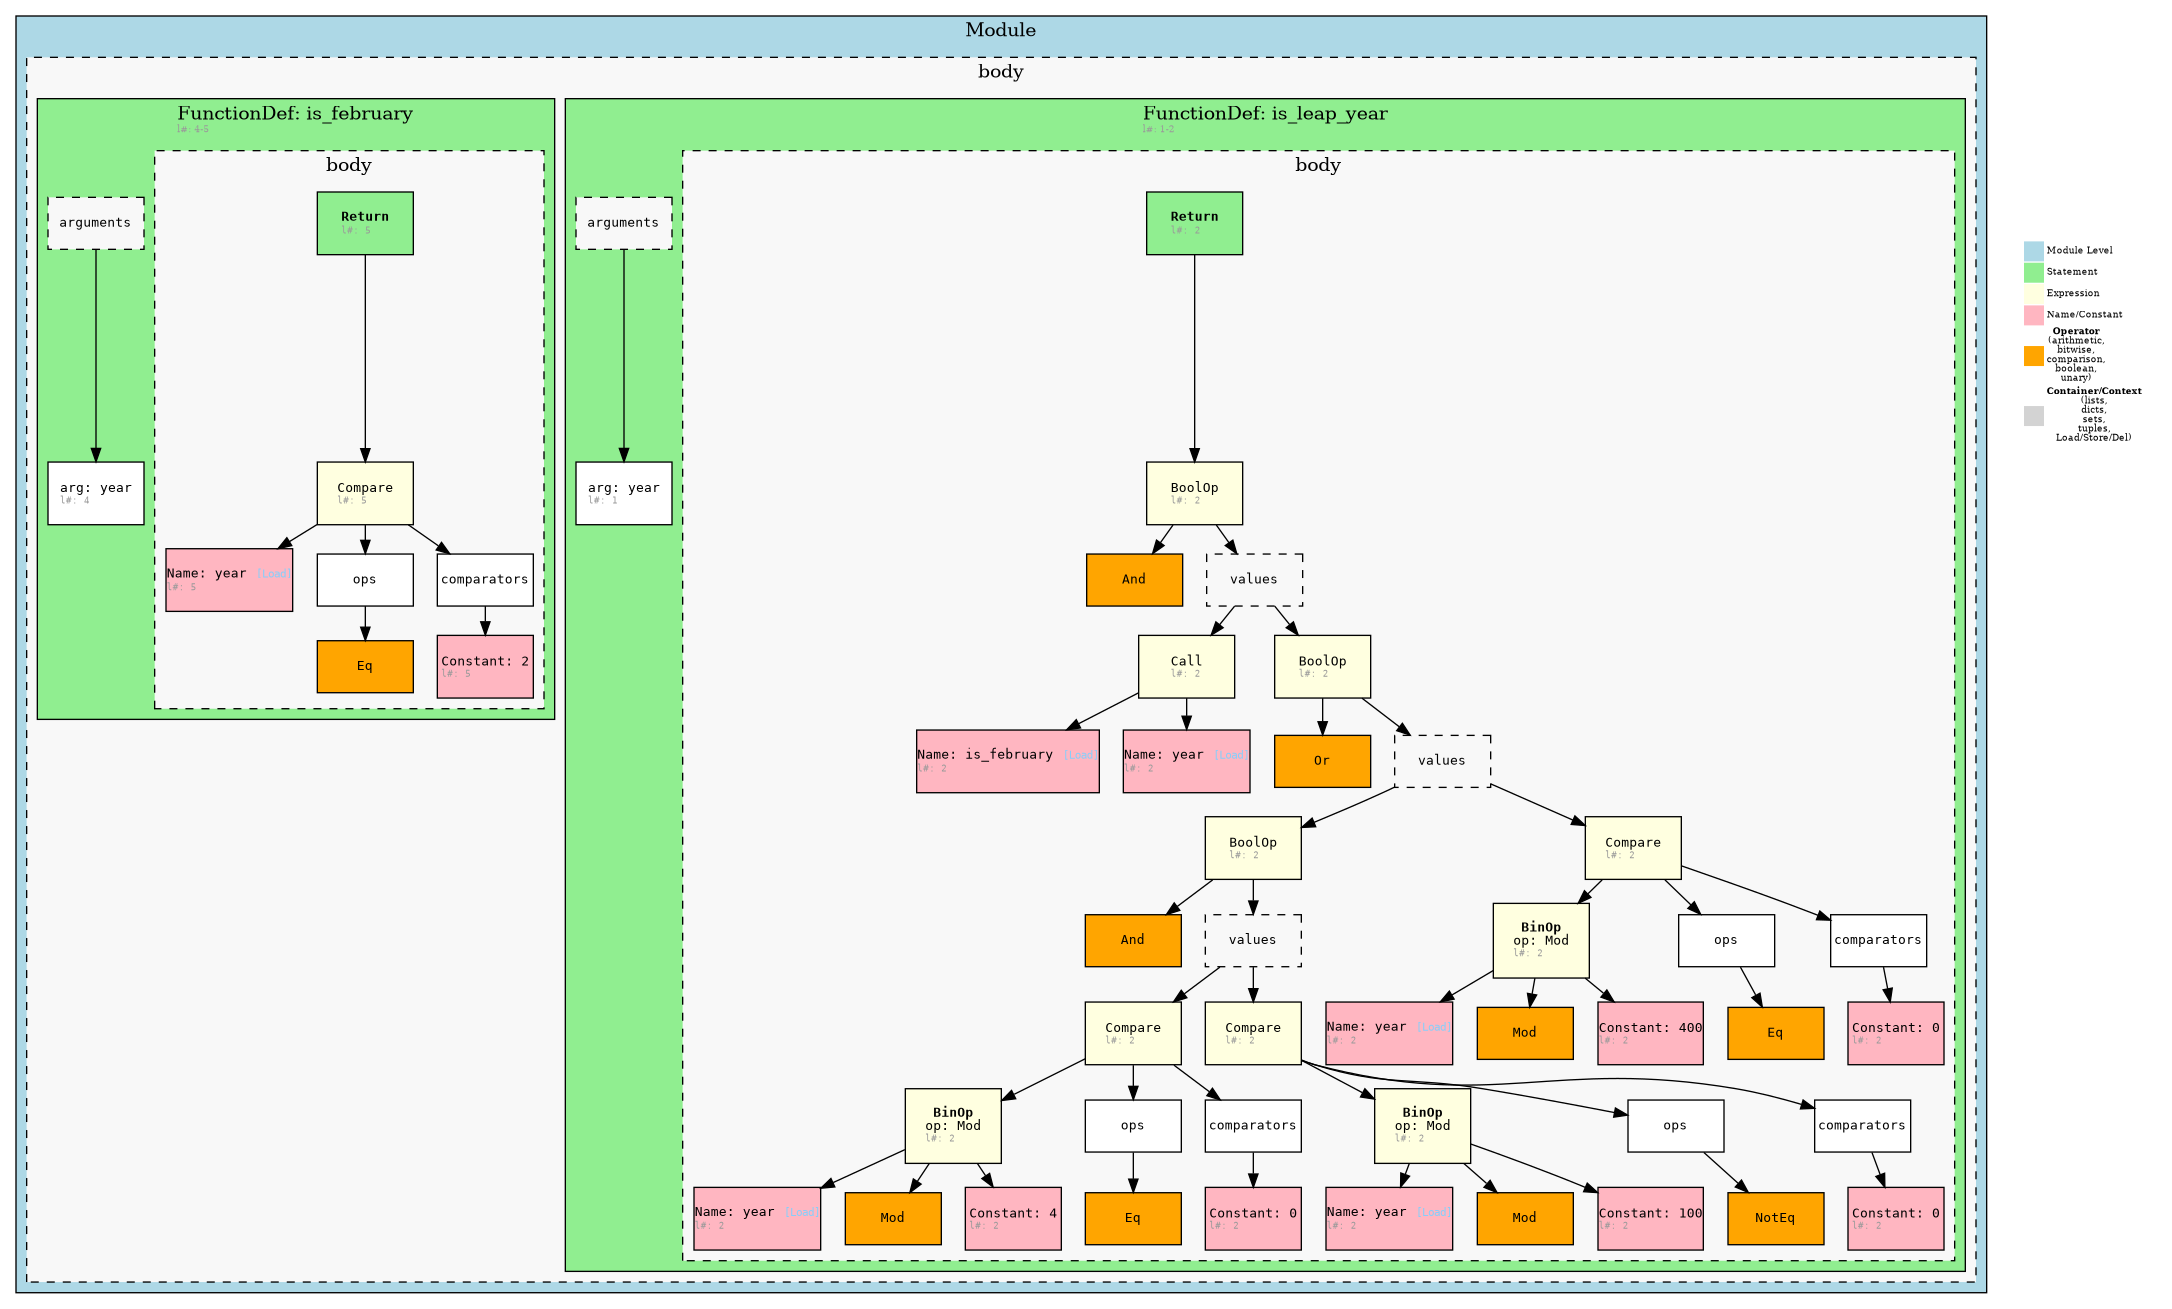
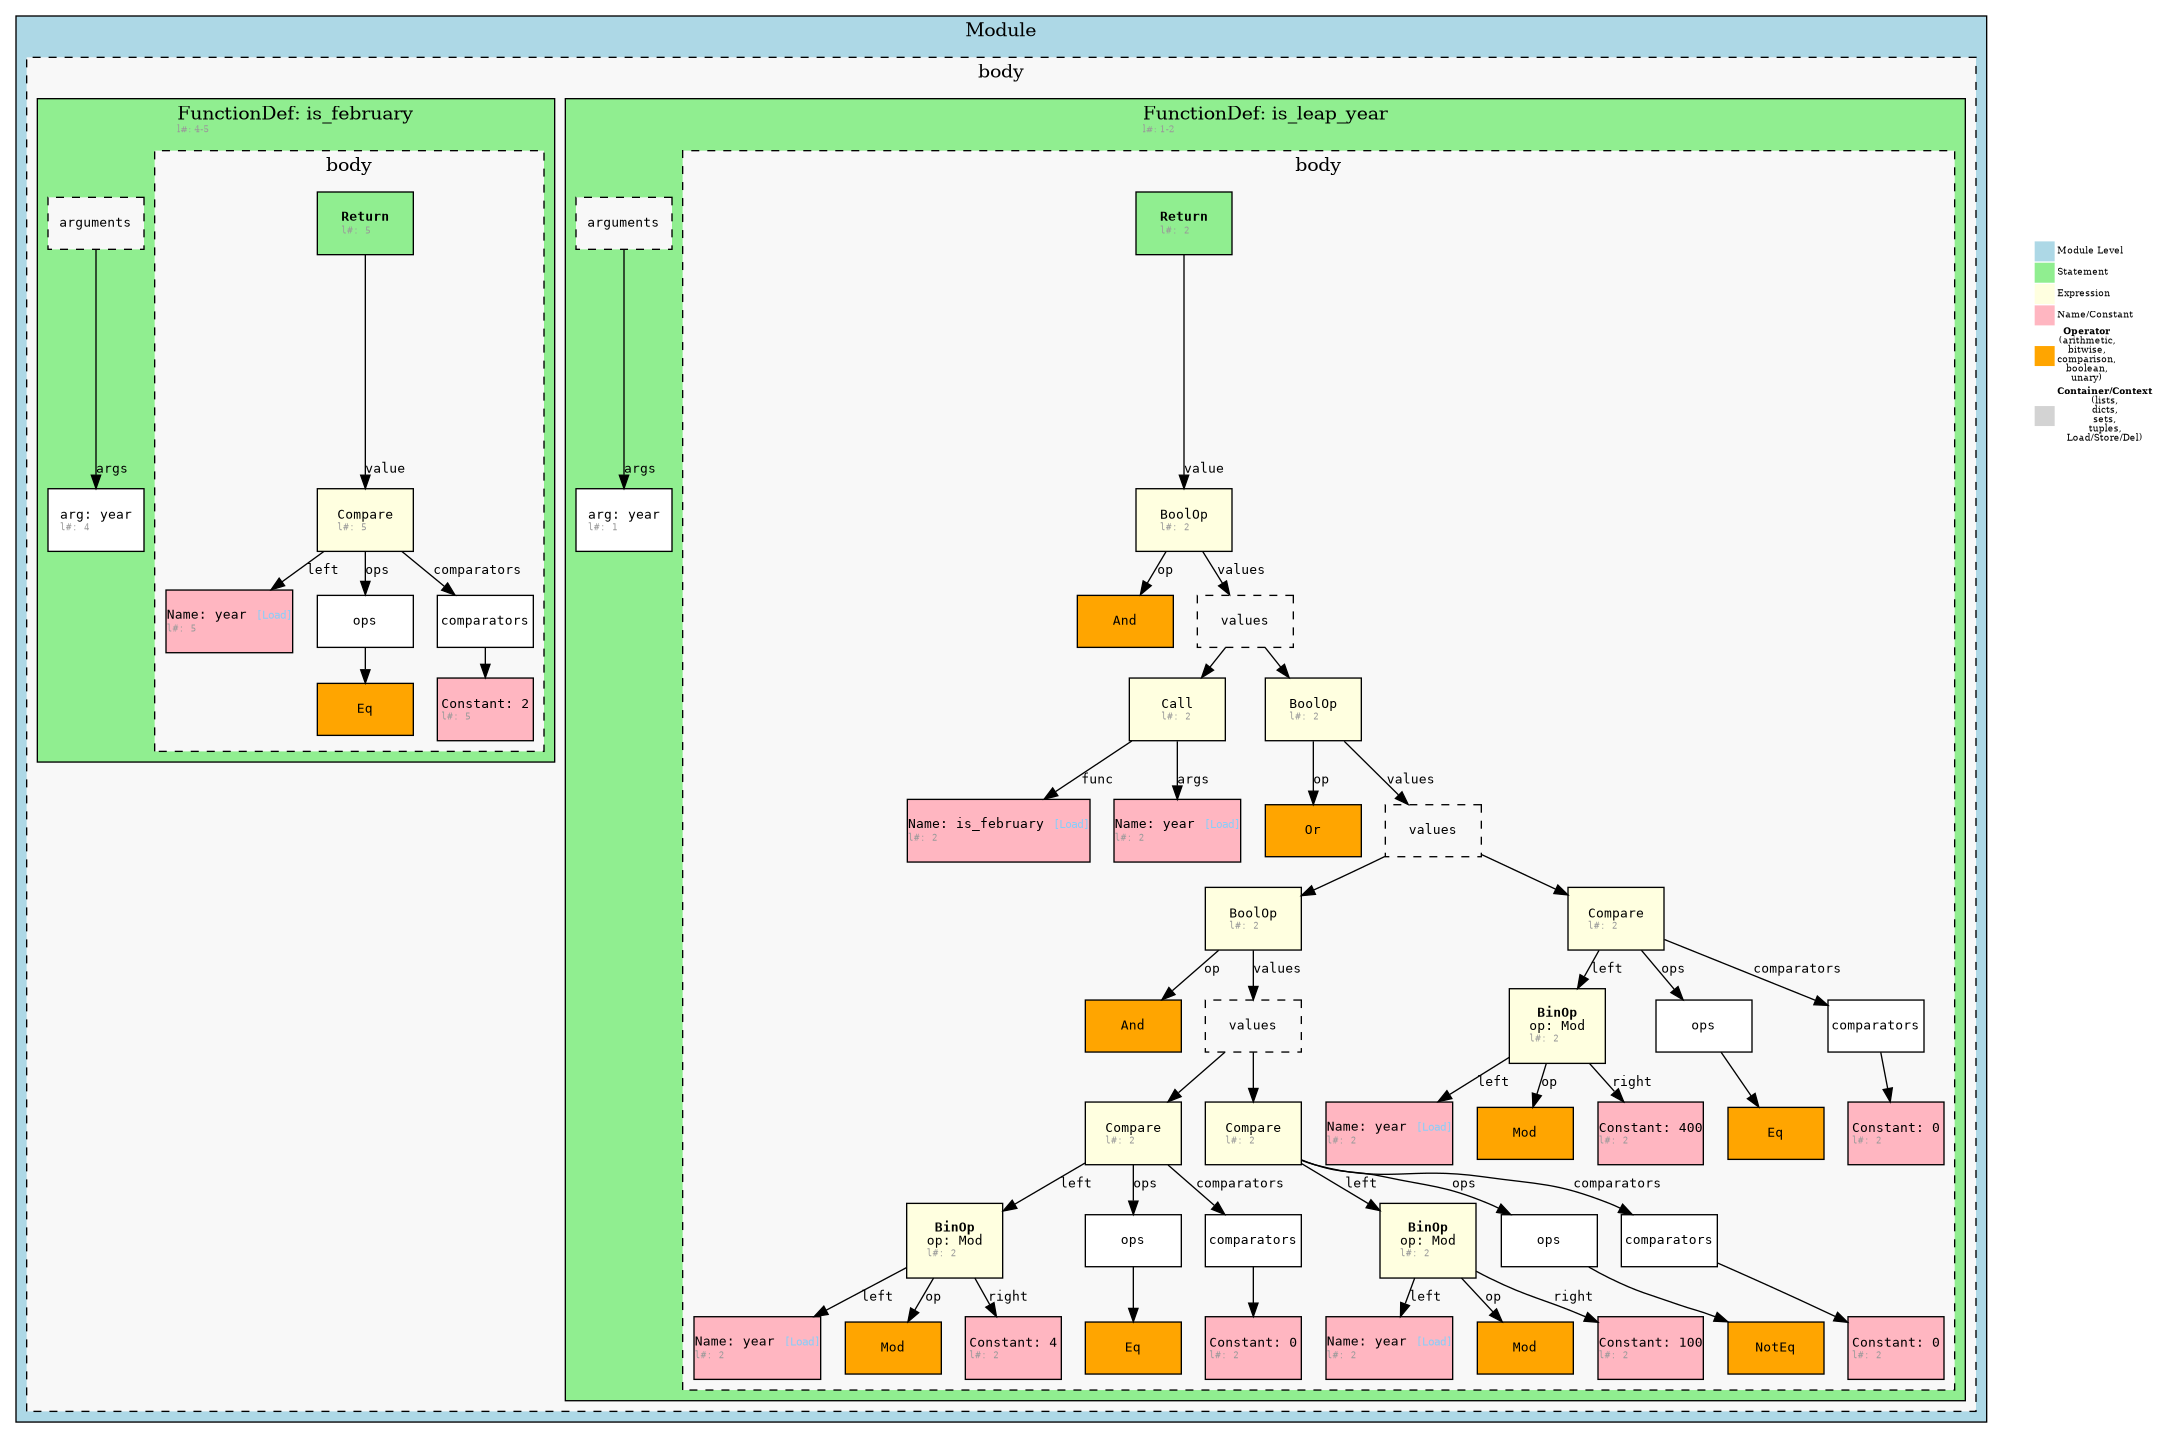
added edges

Changed region(s): [[0.0, 0.0, 0.9871, 1.0]]

diff --git a/dot_render.py b/dot_render.py
@@ -48,9 +48,9 @@ def generate_dot(ast_dict, name='ast', graph_attrs=None, node_attrs=None, edge_a
         elif t == 'arg': main_label_content = f"arg: {node_dict.get('arg', '')}"
         elif t == 'Return': main_label_content = f"<B>Return</B>"
         elif t == 'BinOp':
-            op = node_dict.get('op', '');
-            if isinstance(op, dict) and 'type' in op: op = op['type']
-            main_label_content = f"<B>BinOp</B><BR/>op: {op}"
+            # op = node_dict.get('op', ''); # Ensure this line is commented or removed
+            # if isinstance(op, dict) and 'type' in op: op = op['type'] # Ensure this line is commented or removed
+            main_label_content = f"<B>BinOp</B>" # Corrected label
         elif t == 'Name':
             ctx_value = node_dict.get('ctx')
             ctx_type_str = ''
@@ -132,8 +132,11 @@ def generate_dot(ast_dict, name='ast', graph_attrs=None, node_attrs=None, edge_a
             if anchor_for_positioning:
                 main_dot_graph.edge(anchor_for_positioning, internal_legend_node, style='invis', constraint='false') 
 
-    def _add_nodes_recursive(current_digraph_obj, ast_node, parent_id_for_edge=None):
+    def _add_nodes_recursive(current_digraph_obj, ast_node, parent_id_for_edge=None, edge_label_from_parent=None):
         if not isinstance(ast_node, dict) or 'type' not in ast_node or not isinstance(ast_node['type'], str):
+            # Potentially handle simple string/value nodes if they are meant to be drawn, 
+            # though current logic might skip them if they don't have a 'type'.
+            # For now, if it's not a processable dict, just return.
             return None
 
         node_type = ast_node['type']
@@ -155,68 +158,50 @@ def generate_dot(ast_dict, name='ast', graph_attrs=None, node_attrs=None, edge_a
                         if filtered_body_items:
                             nested_body_cluster_name = f"cluster_body_{node_type.lower()}_{get_unique_id()}"
                             with outer_cluster.subgraph(name=nested_body_cluster_name) as nested_body_cluster:
-                                nested_body_cluster.attr(label='body', style='filled,dashed', fillcolor='#f8f8f8', # Reverted label to 'body'
+                                nested_body_cluster.attr(label='body', style='filled,dashed', fillcolor='#f8f8f8',
                                                          rankdir='TB', ranksep='0.25', nodesep='0.25')
                                 for item in filtered_body_items:
-                                    _add_nodes_recursive(nested_body_cluster, item, None)
-                    # Handle other fields (non-'body', or 'body' if not a list like in an empty module)
+                                    # Edge from body cluster to item might not need a label, or could be index.
+                                    # Passing field ('body') might be too generic here.
+                                    _add_nodes_recursive(nested_body_cluster, item, None, None) # No explicit parent node_id from cluster boundary, no specific edge label
                     elif isinstance(value, list):
                         filtered_list_items = [v for v in value if v is not None]
                         if filtered_list_items:
-                            # Standard list field handling (e.g. args, orelse, targets, decorator_list)
-                            # These are added to the outer_cluster.
-                            # For single items in a container field, connect directly to parent_id (which is None here, so effectively just adds to cluster)
                             if is_container_field(field) and len(filtered_list_items) == 1:
-                                _add_nodes_recursive(outer_cluster, filtered_list_items[0], None) # Add to outer_cluster, no specific parent node needed inside cluster for this item
+                                # Connect directly to parent_id (which is None here, so adds to outer_cluster), use field as edge label
+                                _add_nodes_recursive(outer_cluster, filtered_list_items[0], None, field) 
                             else:
-                                # Multi-item list or non-container list: create a field_box within outer_cluster
                                 field_box_id = get_unique_id()
-                                fb_is_container_look = is_container_field(field) # len > 1 implied or not a container
+                                fb_is_container_look = is_container_field(field)
                                 fb_style = 'filled,dashed' if fb_is_container_look else 'filled'
                                 fb_color = '#f8f8f8' if fb_is_container_look else 'white'
                                 outer_cluster.node(field_box_id, label=f'<{field}>', style=fb_style, fillcolor=fb_color, shape='box')
-                                # No edge from cluster boundary to field_box_id needed.
+                                # No explicit edge from cluster boundary to field_box_id needed for now, field name is on the box.
+                                # If we wanted an edge from cluster *to* field_box, what would parent_id_for_edge be? It's None currently.
                                 for item in filtered_list_items:
-                                    _add_nodes_recursive(outer_cluster, item, field_box_id) # Items connect to field_box_id
+                                    # Items connect to field_box_id. The edge label could be the index or nothing.
+                                    _add_nodes_recursive(outer_cluster, item, field_box_id, None) # Children of field_box don't need label
                     elif isinstance(value, dict) and 'type' in value:
-                        # Single child dict (e.g. 'test' of If, 'iter' of For)
-                        _add_nodes_recursive(outer_cluster, value, None) # Add to outer_cluster, no specific parent node needed
+                        # Single child dict. Add to outer_cluster, use field as edge label from cluster boundary if we had one.
+                        # Since parent_id_for_edge is None (it's the cluster itself), this means an edge from what?
+                        # The current logic doesn't draw edges from the cluster boundary to these direct children.
+                        # If it did, 'field' would be the label.
+                        _add_nodes_recursive(outer_cluster, value, None, field)
             return # Primary cluster processing is done
 
-        # ---- For all OTHER node types (NOT in PRIMARY_CLUSTER_NODE_TYPES) ----
-        # This is for nodes like Assign, Expr, Name, Constant, BinOp, Call, etc.
-        # Also for container-like nodes that are not primary clusters (e.g. an 'arguments' field box)
-
-        # Skip logic for simple non-primary-cluster containers (e.g. an 'args' list with one arg, if 'args' is not a primary cluster type)
-        is_true_container_type = node_type not in NODE_COLORS and node_type in CONTAINER_FIELDS
-        if is_true_container_type:
-            non_empty_child_lists = []
-            for field_check, value_check in ast_node.items():
-                if field_check in ['type', 'lineno', 'col_offset', 'end_lineno', 'end_col_offset', 'ctx']: continue
-                if value_check is None: continue
-                if isinstance(value_check, list):
-                    filtered_check = [v_chk for v_chk in value_check if v_chk is not None]
-                    if filtered_check: non_empty_child_lists.append((field_check, filtered_check))
-            
-            if len(non_empty_child_lists) == 1 and len(ast_node) <= 3: 
-                field_skip, filtered_skip = non_empty_child_lists[0]
-                if len(filtered_skip) == 1:
-                    return _add_nodes_recursive(current_digraph_obj, filtered_skip[0], parent_id_for_edge)
-
-        # Draw the current ast_node (non-primary-cluster type)
         node_id = get_unique_id()
-        _label = format_label_for_node(ast_node) # Use the original detailed label for individual nodes
+        _label = format_label_for_node(ast_node)
         _color = get_node_color(node_type)
         _style = 'filled'
-        if is_true_container_type: # This node itself is a simple container box (e.g. 'arguments')
+        is_true_container_type = node_type not in NODE_COLORS and node_type in CONTAINER_FIELDS
+        if is_true_container_type: 
              _color = '#f8f8f8' 
              _style = 'filled,dashed'
         current_digraph_obj.node(node_id, label=_label, style=_style, fillcolor=_color, shape='box')
 
         if parent_id_for_edge:
-            current_digraph_obj.edge(parent_id_for_edge, node_id)
+            current_digraph_obj.edge(parent_id_for_edge, node_id, label=edge_label_from_parent)
 
-        # Process fields for this non-primary-cluster node
         for field, value in ast_node.items():
             if field in ['type', 'lineno', 'col_offset', 'end_lineno', 'end_col_offset', 'ctx']: continue
             if value is None: continue
@@ -225,21 +210,21 @@ def generate_dot(ast_dict, name='ast', graph_attrs=None, node_attrs=None, edge_a
                 filtered_list_items = [v for v in value if v is not None]
                 if filtered_list_items:
                     if is_container_field(field) and len(filtered_list_items) == 1:
-                         _add_nodes_recursive(current_digraph_obj, filtered_list_items[0], node_id)
+                         _add_nodes_recursive(current_digraph_obj, filtered_list_items[0], node_id, field)
                     else:
                         field_box_id = get_unique_id()
                         fb_is_container_look = is_container_field(field)
                         fb_style = 'filled,dashed' if fb_is_container_look else 'filled'
                         fb_color = '#f8f8f8' if fb_is_container_look else 'white'
                         current_digraph_obj.node(field_box_id, label=f'<{field}>', style=fb_style, fillcolor=fb_color, shape='box')
-                        current_digraph_obj.edge(node_id, field_box_id)
+                        current_digraph_obj.edge(node_id, field_box_id, label=field) # Edge from parent node to field_box, label with field name
                         for item in filtered_list_items:
-                            _add_nodes_recursive(current_digraph_obj, item, field_box_id)
+                            _add_nodes_recursive(current_digraph_obj, item, field_box_id, None) # Children of field_box don't need label
             elif isinstance(value, dict) and 'type' in value:
-                _add_nodes_recursive(current_digraph_obj, value, node_id)
+                _add_nodes_recursive(current_digraph_obj, value, node_id, field)
         return node_id
 
-    _add_nodes_recursive(dot, ast_dict, None) # Initial call
+    _add_nodes_recursive(dot, ast_dict, None, None) # Initial call, no parent, no edge label
 
     if legend_mode == 'full':
         bottom_anchor_name = f'bottom_anchor_{name}'
